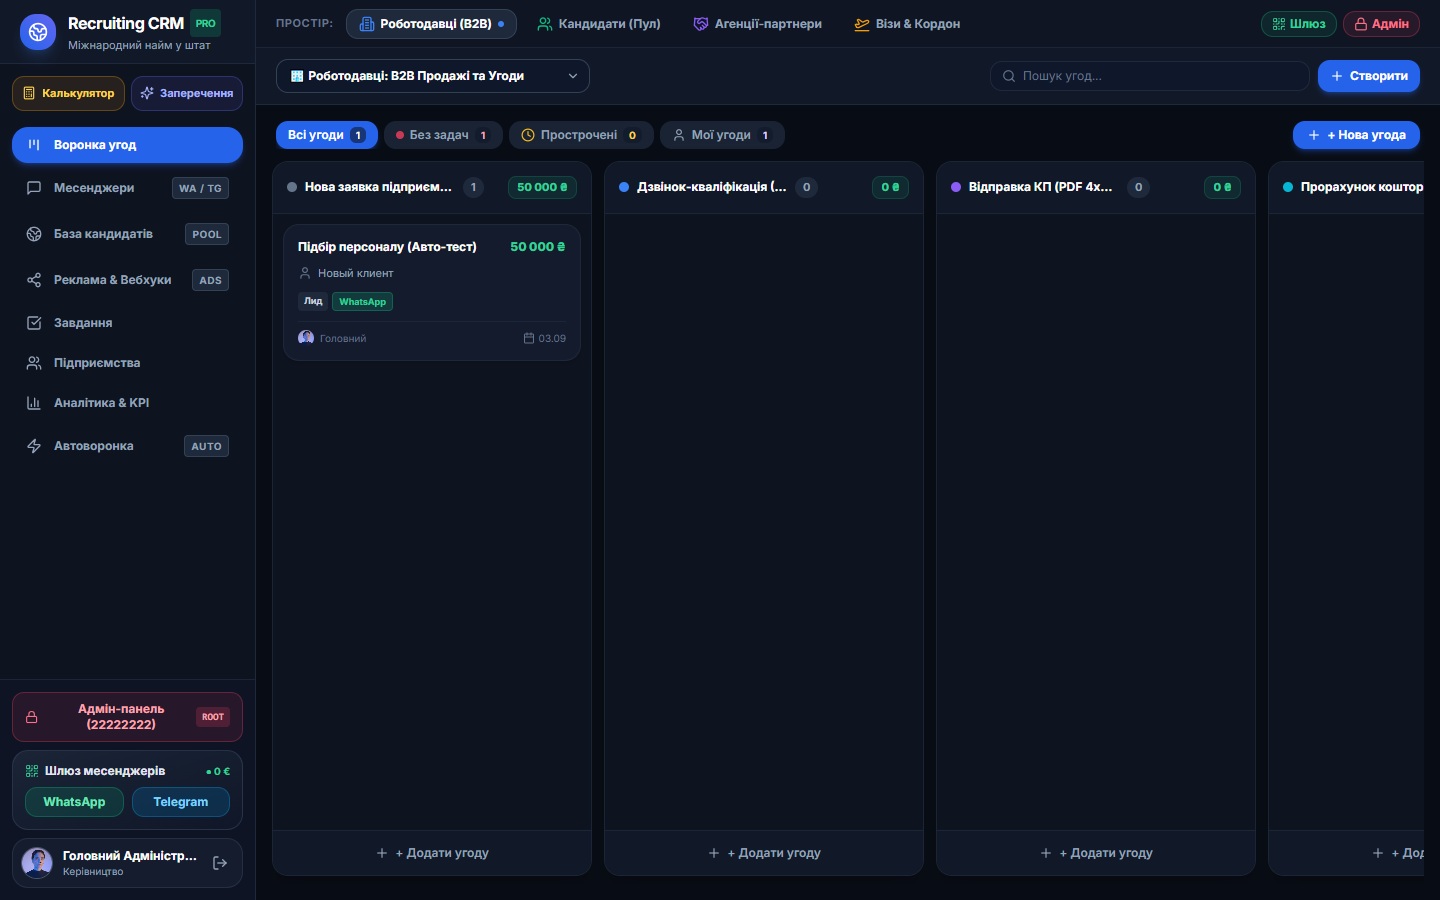
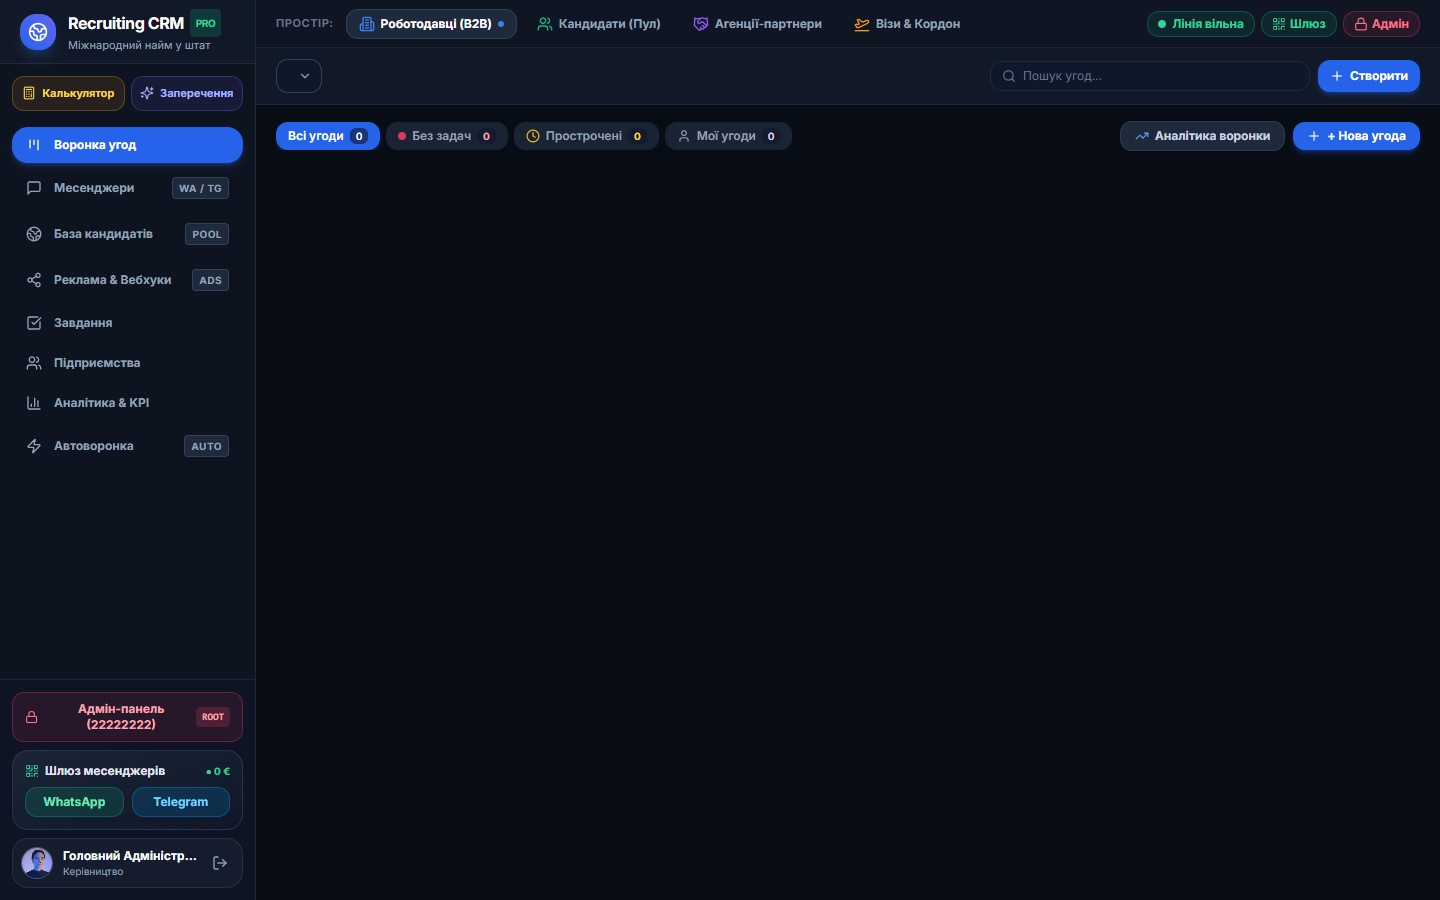
fix: safe optional chaining on pipeline stages across modals

diff --git a/client/src/components/modals/CreateDealModal.tsx b/client/src/components/modals/CreateDealModal.tsx
@@ -23,8 +23,8 @@ export const CreateDealModal: React.FC<CreateDealModalProps> = ({
   const [title, setTitle] = useState('');
   const [budget, setBudget] = useState('');
   const [pipelineId, setPipelineId] = useState(activePipelineId);
-  const selectedPipeline = pipelines.find(p => p.id === pipelineId) || pipelines[0];
-  const [stageId, setStageId] = useState(initialStageId || selectedPipeline?.stages[0]?.id || '');
+  const selectedPipeline = pipelines.find(p => p.id === pipelineId) || pipelines[0] || { id: 'default', name: 'Воронка', stages: [] };
+  const [stageId, setStageId] = useState(initialStageId || selectedPipeline?.stages?.[0]?.id || '');
   const [responsibleId, setResponsibleId] = useState(currentUser?.id || '');
   
   // Client info
@@ -62,14 +62,14 @@ export const CreateDealModal: React.FC<CreateDealModalProps> = ({
         title,
         budget: Number(budget) || 0,
         pipelineId,
-        stageId: stageId || selectedPipeline.stages[0].id,
+        stageId: stageId || selectedPipeline?.stages?.[0]?.id || 'stage-default',
         responsibleId,
         contactId,
         tags
       });
 
       onDealCreated(res.data);
-      alert(`✅ Лід "${title}" успішно додано до воронки на етап "${selectedPipeline.stages.find(s => s.id === stageId)?.name || 'Нова заявка'}"!`);
+      alert(`✅ Лід "${title}" успішно додано до воронки на етап "${selectedPipeline?.stages?.find(s => s.id === stageId)?.name || 'Нова заявка'}"!`);
       onClose();
     } catch (e) {
       console.error('Failed to create deal:', e);
@@ -133,9 +133,9 @@ export const CreateDealModal: React.FC<CreateDealModalProps> = ({
               <select
                 value={pipelineId}
                 onChange={(e) => {
-                  setPipelineId(e.target.value);
-                  const p = pipelines.find(pl => pl.id === e.target.value);
-                  if (p && p.stages.length > 0) setStageId(p.stages[0].id);
+                   setPipelineId(e.target.value);
+                   const p = pipelines.find(pl => pl.id === e.target.value);
+                   if (p && p.stages && p.stages.length > 0) setStageId(p.stages[0].id);
                 }}
                 className="w-full bg-slate-900 border border-slate-800 rounded-xl p-2.5 text-white"
               >
@@ -151,7 +151,7 @@ export const CreateDealModal: React.FC<CreateDealModalProps> = ({
                 onChange={(e) => setStageId(e.target.value)}
                 className="w-full bg-slate-900 border border-slate-800 rounded-xl p-2.5 text-white"
               >
-                {selectedPipeline.stages.map(s => (
+                {(selectedPipeline?.stages || []).map(s => (
                   <option key={s.id} value={s.id}>{s.name}</option>
                 ))}
               </select>

diff --git a/client/src/components/inbox/UnifiedInbox.tsx b/client/src/components/inbox/UnifiedInbox.tsx
@@ -408,7 +408,7 @@ export const UnifiedInbox: React.FC<UnifiedInboxProps> = ({
               {activeDeal && currentPipeline && (
                 <div className="px-4 sm:px-6 py-2 bg-[#0c101c] border-t border-slate-800/80 flex items-center gap-1.5 overflow-x-auto">
                   <span className="text-[10px] text-slate-500 uppercase font-bold mr-1">Етап:</span>
-                  {currentPipeline.stages.map((stg) => {
+                  {(currentPipeline?.stages || []).map((stg) => {
                     const isCurrent = activeDeal.stageId === stg.id;
                     return (
                       <button
